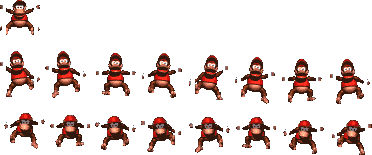
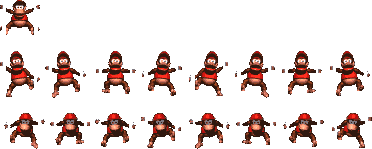
Monkeys WIP

diff --git a/minigames/ladders/minigame.py b/minigames/ladders/minigame.py
@@ -5,10 +5,18 @@ from pygame.rect import Rect
 from minigames import minigame
 
 
+SPRITE = 0
+ANIMATION = 1
+
+STILL_STATE = 0
+UP_STATE = 1
+DOWN_STATE = 2
+
+
 class LaddersMinigame(minigame.Minigame):
     name = "Evade the bees!"
     game_type = minigame.MULTIPLAYER
-    max_duration = 10000
+    max_duration = 60000
 
     BEE_BASE_SPEED = 10
     BEE_BASE_COUNT = 6
@@ -24,35 +32,96 @@ class LaddersMinigame(minigame.Minigame):
         self.gfx_bg3 = pygame.image.load("./res/img/ladders/bg3.png")
         self.gfx_ladder = pygame.image.load("./res/img/ladders/ladder.png")
 
+        p = lambda x: x * 41 + x * 6
         # Entities GFX
-        self.gfx_left_bee = cycle([
-            pygame.transform.flip(pygame.image.load("./res/img/ladders/bee.png").subsurface(Rect((0, 0), (47, 49))), True),
-            pygame.transform.flip(pygame.image.load("./res/img/ladders/bee.png").subsurface(Rect((54, 0), (47, 49))), True),
-            pygame.transform.flip(pygame.image.load("./res/img/ladders/bee.png").subsurface(Rect((108, 0), (47, 49))), True),
-            pygame.transform.flip(pygame.image.load("./res/img/ladders/bee.png").subsurface(Rect((54, 0), (47, 49))), True)
-        ])
-        self.gfx_right_bee = cycle([
-            pygame.image.load("./res/img/ladders/bee.png").subsurface(Rect((0, 0), (47, 49))),
-            pygame.image.load("./res/img/ladders/bee.png").subsurface(Rect((54, 0), (47, 49))),
-            pygame.image.load("./res/img/ladders/bee.png").subsurface(Rect((108, 0), (47, 49))),
-            pygame.image.load("./res/img/ladders/bee.png").subsurface(Rect((54, 0), (47, 49)))
-        ])
+        self.gfx_monkeys = [
+            [
+                cycle([pygame.image.load("./res/img/ladders/p1.png").subsurface(Rect((0, 0), (40, 35)))]),
+                cycle([
+                    pygame.image.load("./res/img/ladders/p1.png").subsurface(Rect((p(0), 50), (40, 47))),
+                    pygame.image.load("./res/img/ladders/p1.png").subsurface(Rect((p(1), 50), (40, 47))),
+                    pygame.image.load("./res/img/ladders/p1.png").subsurface(Rect((p(2), 50), (40, 47))),
+                    pygame.image.load("./res/img/ladders/p1.png").subsurface(Rect((p(3), 50), (40, 47))),
+                    pygame.image.load("./res/img/ladders/p1.png").subsurface(Rect((p(4), 50), (40, 47))),
+                    pygame.image.load("./res/img/ladders/p1.png").subsurface(Rect((p(5), 50), (40, 47))),
+                    pygame.image.load("./res/img/ladders/p1.png").subsurface(Rect((p(6), 50), (40, 47))),
+                    pygame.image.load("./res/img/ladders/p1.png").subsurface(Rect((p(7), 50), (40, 47)))
+                ]),
+                cycle([
+                    pygame.image.load("./res/img/ladders/p1.png").subsurface(Rect((p(0), 113), (40, 36))),
+                    pygame.image.load("./res/img/ladders/p1.png").subsurface(Rect((p(1), 113), (40, 36))),
+                    pygame.image.load("./res/img/ladders/p1.png").subsurface(Rect((p(2), 113), (40, 36))),
+                    pygame.image.load("./res/img/ladders/p1.png").subsurface(Rect((p(3), 113), (40, 36))),
+                    pygame.image.load("./res/img/ladders/p1.png").subsurface(Rect((p(4), 113), (40, 36))),
+                    pygame.image.load("./res/img/ladders/p1.png").subsurface(Rect((p(5), 113), (40, 36))),
+                    pygame.image.load("./res/img/ladders/p1.png").subsurface(Rect((p(6), 113), (40, 36))),
+                    pygame.image.load("./res/img/ladders/p1.png").subsurface(Rect((p(7), 113), (40, 36)))
+                ])
+            ],
+            [
+               cycle([pygame.image.load("./res/img/ladders/p2.png").subsurface(Rect((0, 0), (40, 35)))]),
+                cycle([
+                    pygame.image.load("./res/img/ladders/p2.png").subsurface(Rect((p(0), 50), (40, 47))),
+                    pygame.image.load("./res/img/ladders/p2.png").subsurface(Rect((p(1), 50), (40, 47))),
+                    pygame.image.load("./res/img/ladders/p2.png").subsurface(Rect((p(2), 50), (40, 47))),
+                    pygame.image.load("./res/img/ladders/p2.png").subsurface(Rect((p(3), 50), (40, 47))),
+                    pygame.image.load("./res/img/ladders/p2.png").subsurface(Rect((p(4), 50), (40, 47))),
+                    pygame.image.load("./res/img/ladders/p2.png").subsurface(Rect((p(5), 50), (40, 47))),
+                    pygame.image.load("./res/img/ladders/p2.png").subsurface(Rect((p(6), 50), (40, 47))),
+                    pygame.image.load("./res/img/ladders/p2.png").subsurface(Rect((p(7), 50), (40, 47)))
+                ]),
+                cycle([
+                    pygame.image.load("./res/img/ladders/p2.png").subsurface(Rect((p(0), 113), (40, 36))),
+                    pygame.image.load("./res/img/ladders/p2.png").subsurface(Rect((p(1), 113), (40, 36))),
+                    pygame.image.load("./res/img/ladders/p2.png").subsurface(Rect((p(2), 113), (40, 36))),
+                    pygame.image.load("./res/img/ladders/p2.png").subsurface(Rect((p(3), 113), (40, 36))),
+                    pygame.image.load("./res/img/ladders/p2.png").subsurface(Rect((p(4), 113), (40, 36))),
+                    pygame.image.load("./res/img/ladders/p2.png").subsurface(Rect((p(5), 113), (40, 36))),
+                    pygame.image.load("./res/img/ladders/p2.png").subsurface(Rect((p(6), 113), (40, 36))),
+                    pygame.image.load("./res/img/ladders/p2.png").subsurface(Rect((p(7), 113), (40, 36)))
+                ])
+            ]
+        ]
+        self.gfx_bees = [
+            cycle([
+                pygame.transform.flip(pygame.image.load("./res/img/ladders/bee.png").subsurface(Rect((0, 0), (47, 49))), True, False),
+                pygame.transform.flip(pygame.image.load("./res/img/ladders/bee.png").subsurface(Rect((54, 0), (47, 49))), True, False),
+                pygame.transform.flip(pygame.image.load("./res/img/ladders/bee.png").subsurface(Rect((108, 0), (47, 49))), True, False),
+                pygame.transform.flip(pygame.image.load("./res/img/ladders/bee.png").subsurface(Rect((54, 0), (47, 49))), True, False)
+            ]),
+            cycle([
+                pygame.image.load("./res/img/ladders/bee.png").subsurface(Rect((0, 0), (47, 49))),
+                pygame.image.load("./res/img/ladders/bee.png").subsurface(Rect((54, 0), (47, 49))),
+                pygame.image.load("./res/img/ladders/bee.png").subsurface(Rect((108, 0), (47, 49))),
+                pygame.image.load("./res/img/ladders/bee.png").subsurface(Rect((54, 0), (47, 49)))
+            ])
+        ]
 
         # Entities
+        self.monkeys = []
         self.bees = ([], [])
+        # Triforce! ---^
 
     def init(self):
+        self.monkeys = [
+            [self.gfx_monkeys[0][STILL_STATE].next(), self.gfx_monkeys[0]],
+            [self.gfx_monkeys[1][STILL_STATE].next(), self.gfx_monkeys[1]]
+        ]
+
         for i in range(LaddersMinigame.BEE_BASE_COUNT / 2):
-            self.bees[0].append((self.gfx_left_bee, random.randint(150, 500)))
-            self.bees[1].append((self.gfx_left_bee, random.randint(150, 500)))
+            self.bees[0].append((self.gfx_bees[0], random.randint(150, 500)))
+            self.bees[1].append((self.gfx_bees[1], random.randint(150, 500)))
 
     def tick(self):
-        # if self.frame % 2 == 0:
-        #     self.bees = self.gfx_bee.next()
+        if self.frame % 2 == 0:
+            self.monkeys[0][SPRITE] = self.monkeys[0][ANIMATION][UP_STATE].next()
+            self.monkeys[1][SPRITE] = self.monkeys[0][ANIMATION][DOWN_STATE].next()
 
         self.game.screen.blit(self.gfx_bg2, (-2 * (self.frame % 319), 0))
         self.game.screen.blit(self.gfx_bg1, (20, 0))
+        self.game.screen.blit(self.monkeys[0][SPRITE], (self.game.GAME_WIDTH / 2 - 75, 100))
+
+        # Overlay
         self.game.screen.blit(self.gfx_ladder, (self.game.GAME_WIDTH / 2 - 75, 100))
         self.game.screen.blit(self.gfx_ladder, (self.game.GAME_WIDTH / 2 + 75, 100))
-        # self.game.screen.blit(self.bees, (100, 100))
         self.game.screen.blit(self.gfx_bg3, (-8 * (self.frame % 159), 0))
